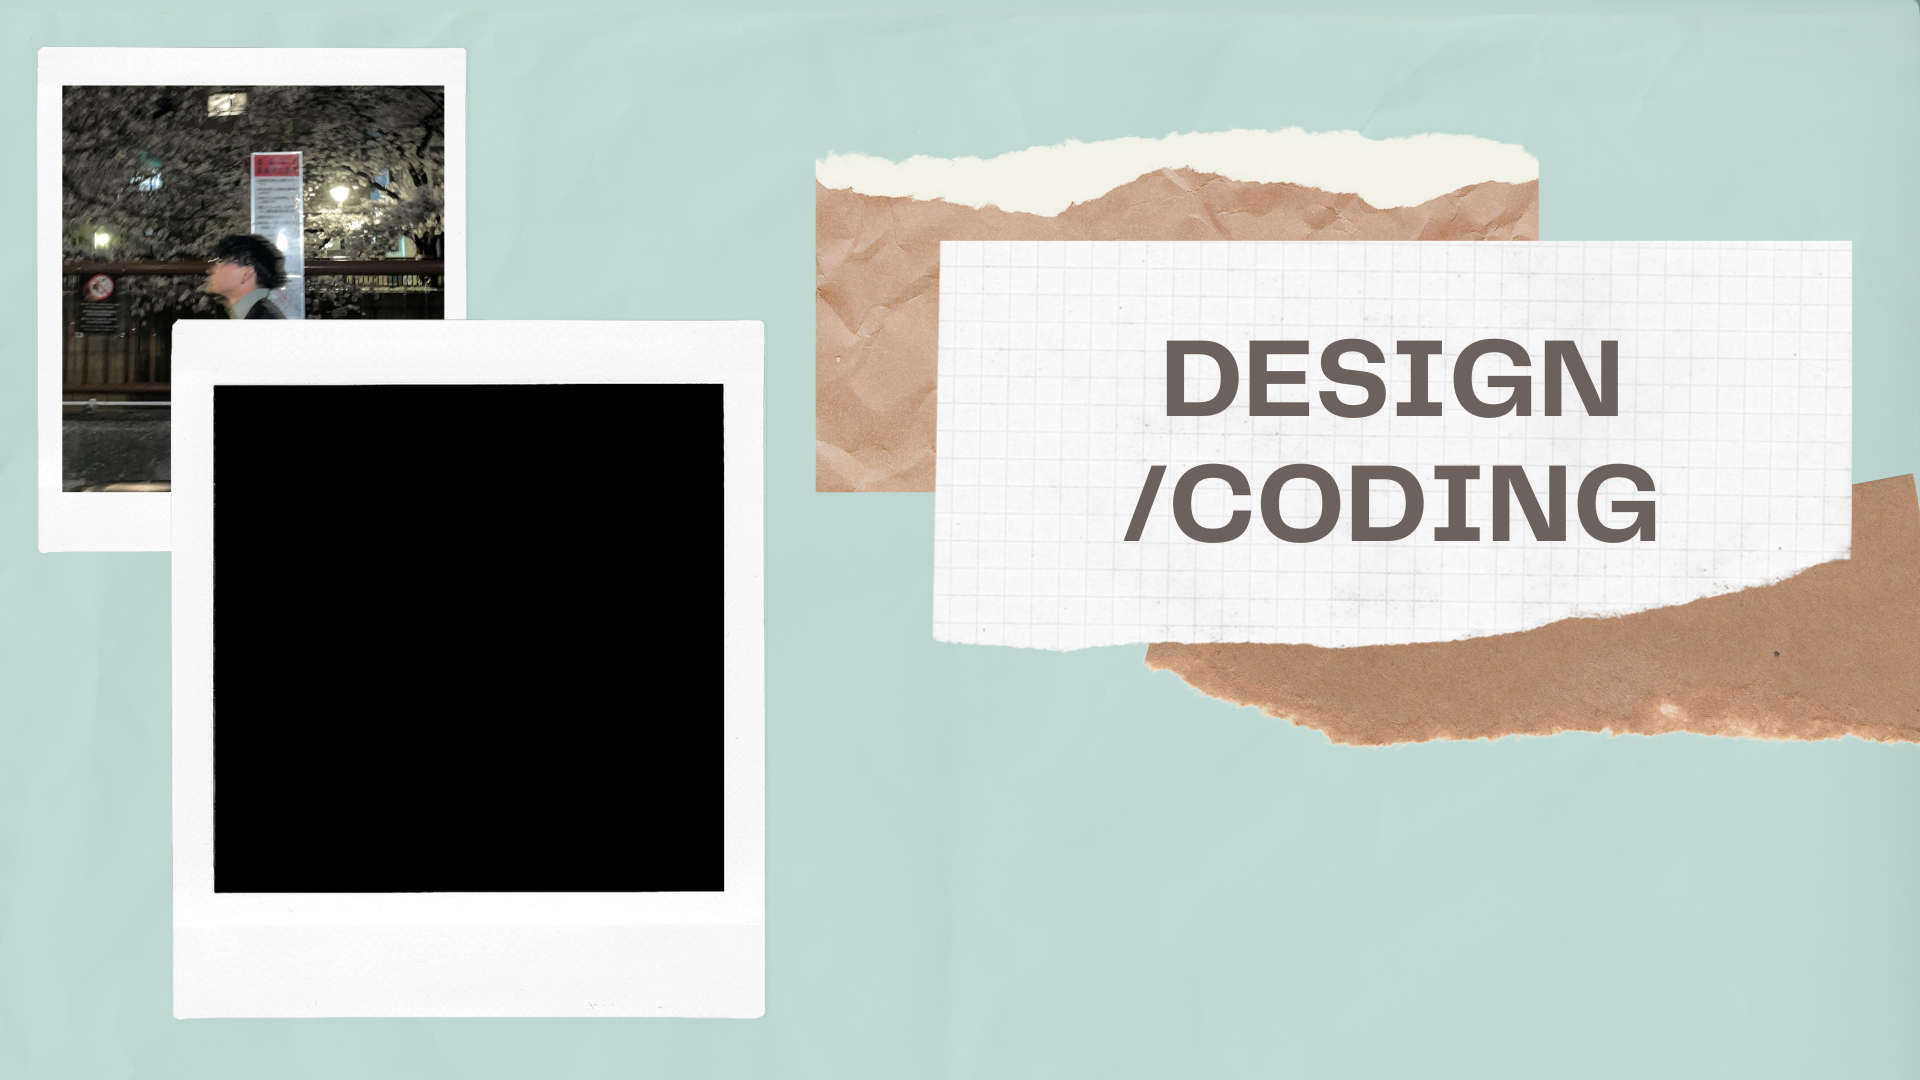
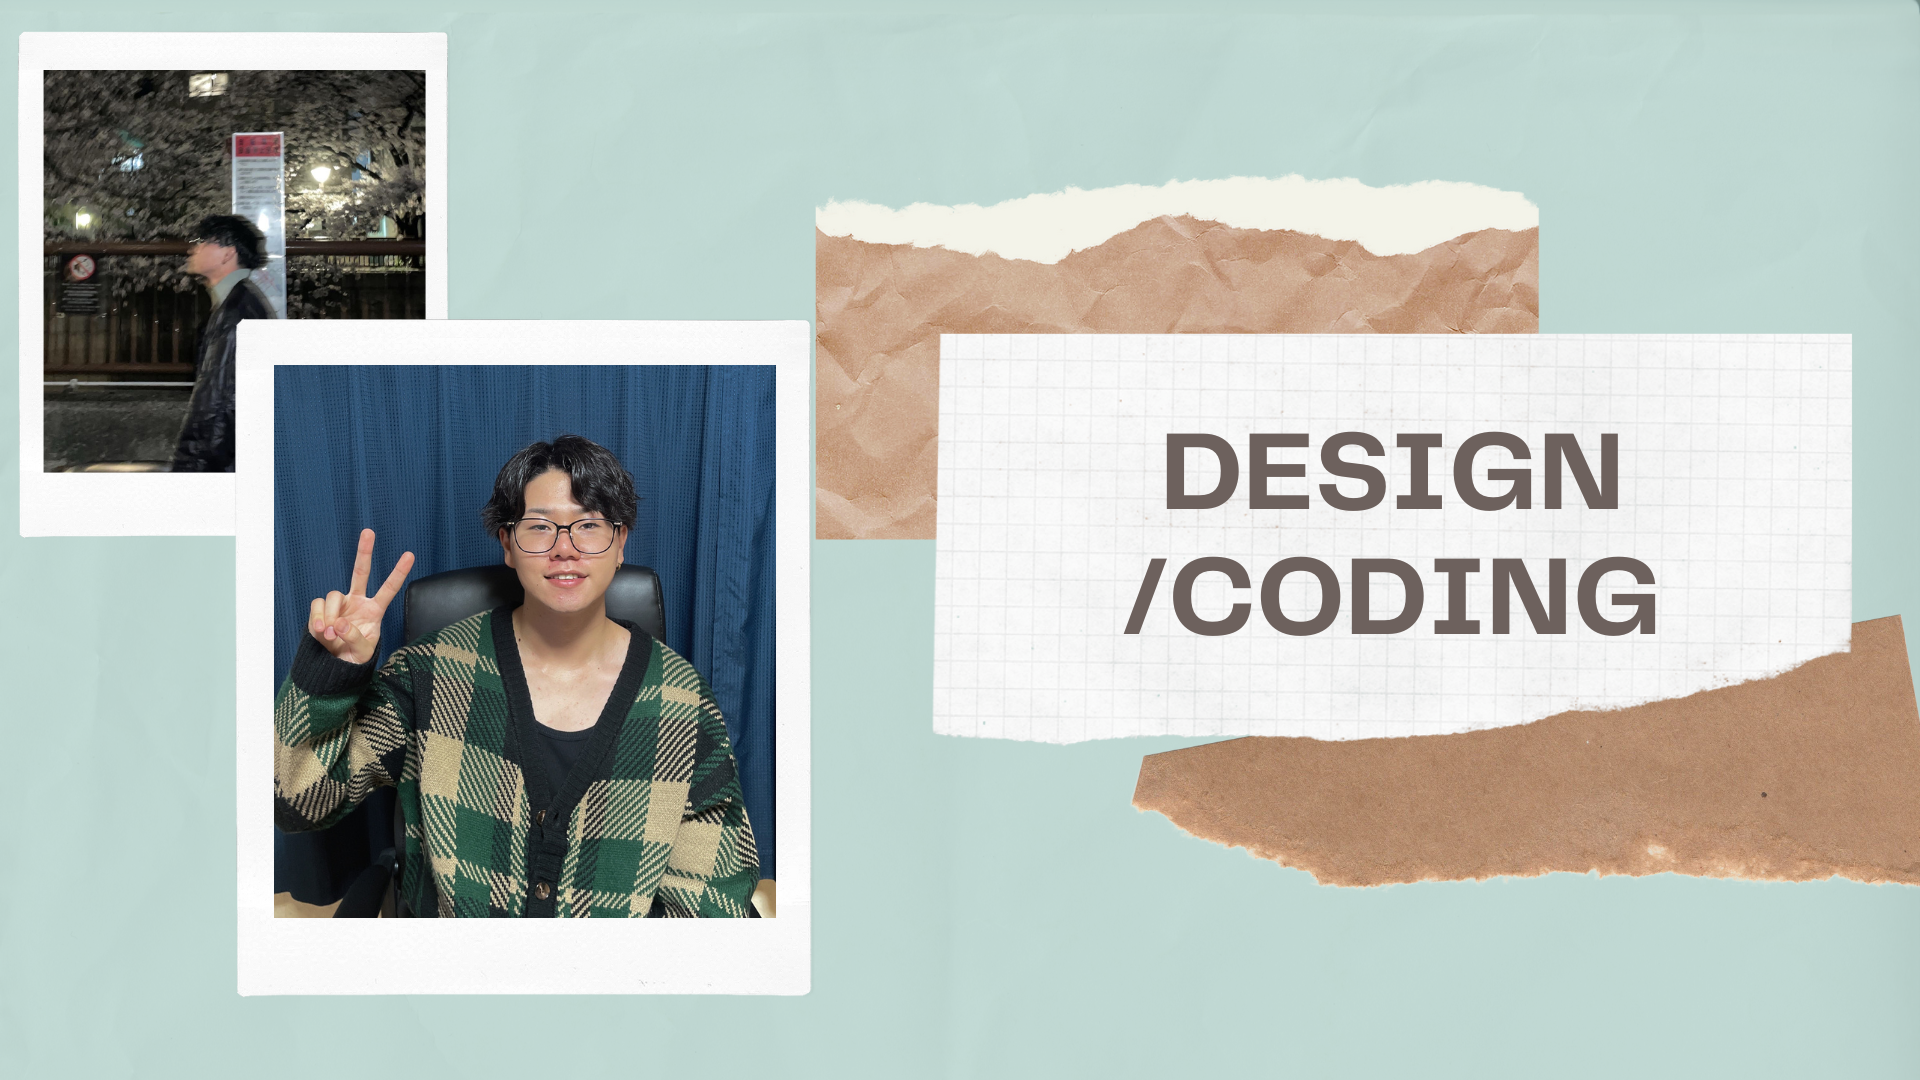
Add files via upload

diff --git a/index.html b/index.html
@@ -105,7 +105,7 @@
           <h2 class="title">ABOUT</h2>
           <div class="profile">
             <p class="profile-img">
-              <img src="img/" alt="about">
+              <img src="img/IMG_0488.JPG" alt="about">
             </p>
             <div class="profile-body">
               <p>

diff --git a/css/style.css b/css/style.css
@@ -248,7 +248,7 @@ img {
   margin: 0 auto;
 }
 .profile-img {
-  width: 20%;
+  width: 30%;
   margin-right: 30px;
   border-radius: 50%;
 }
